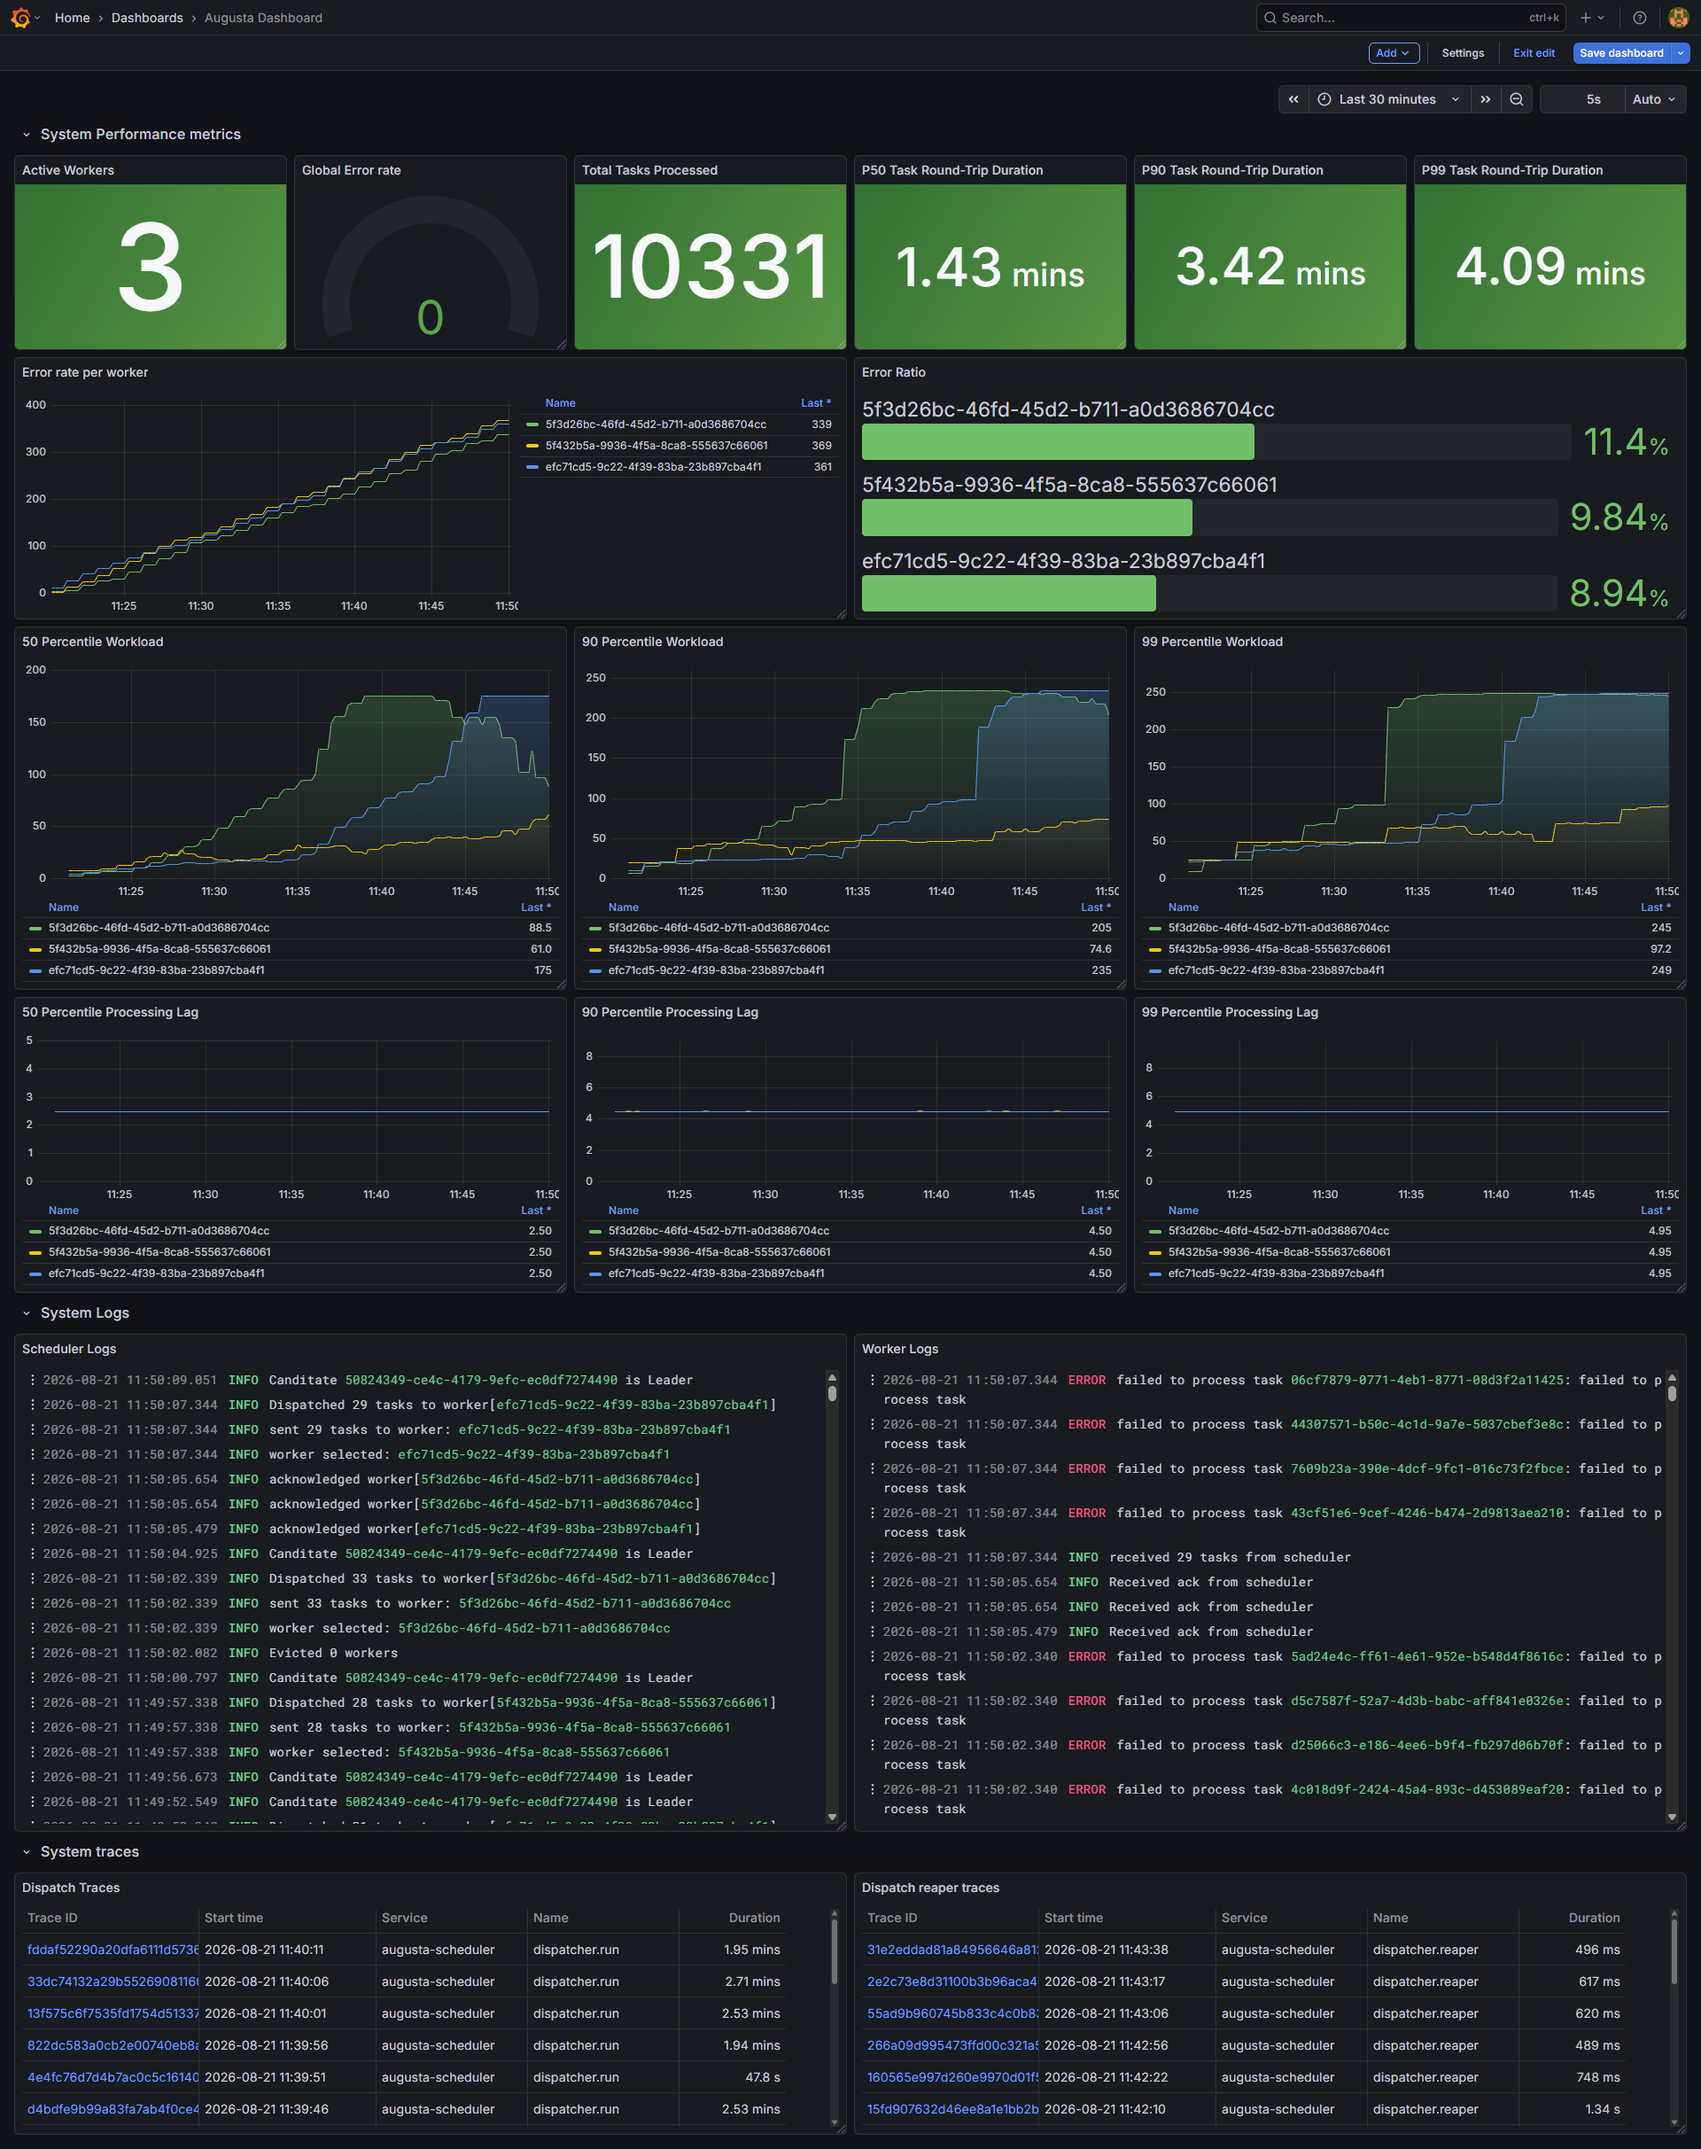
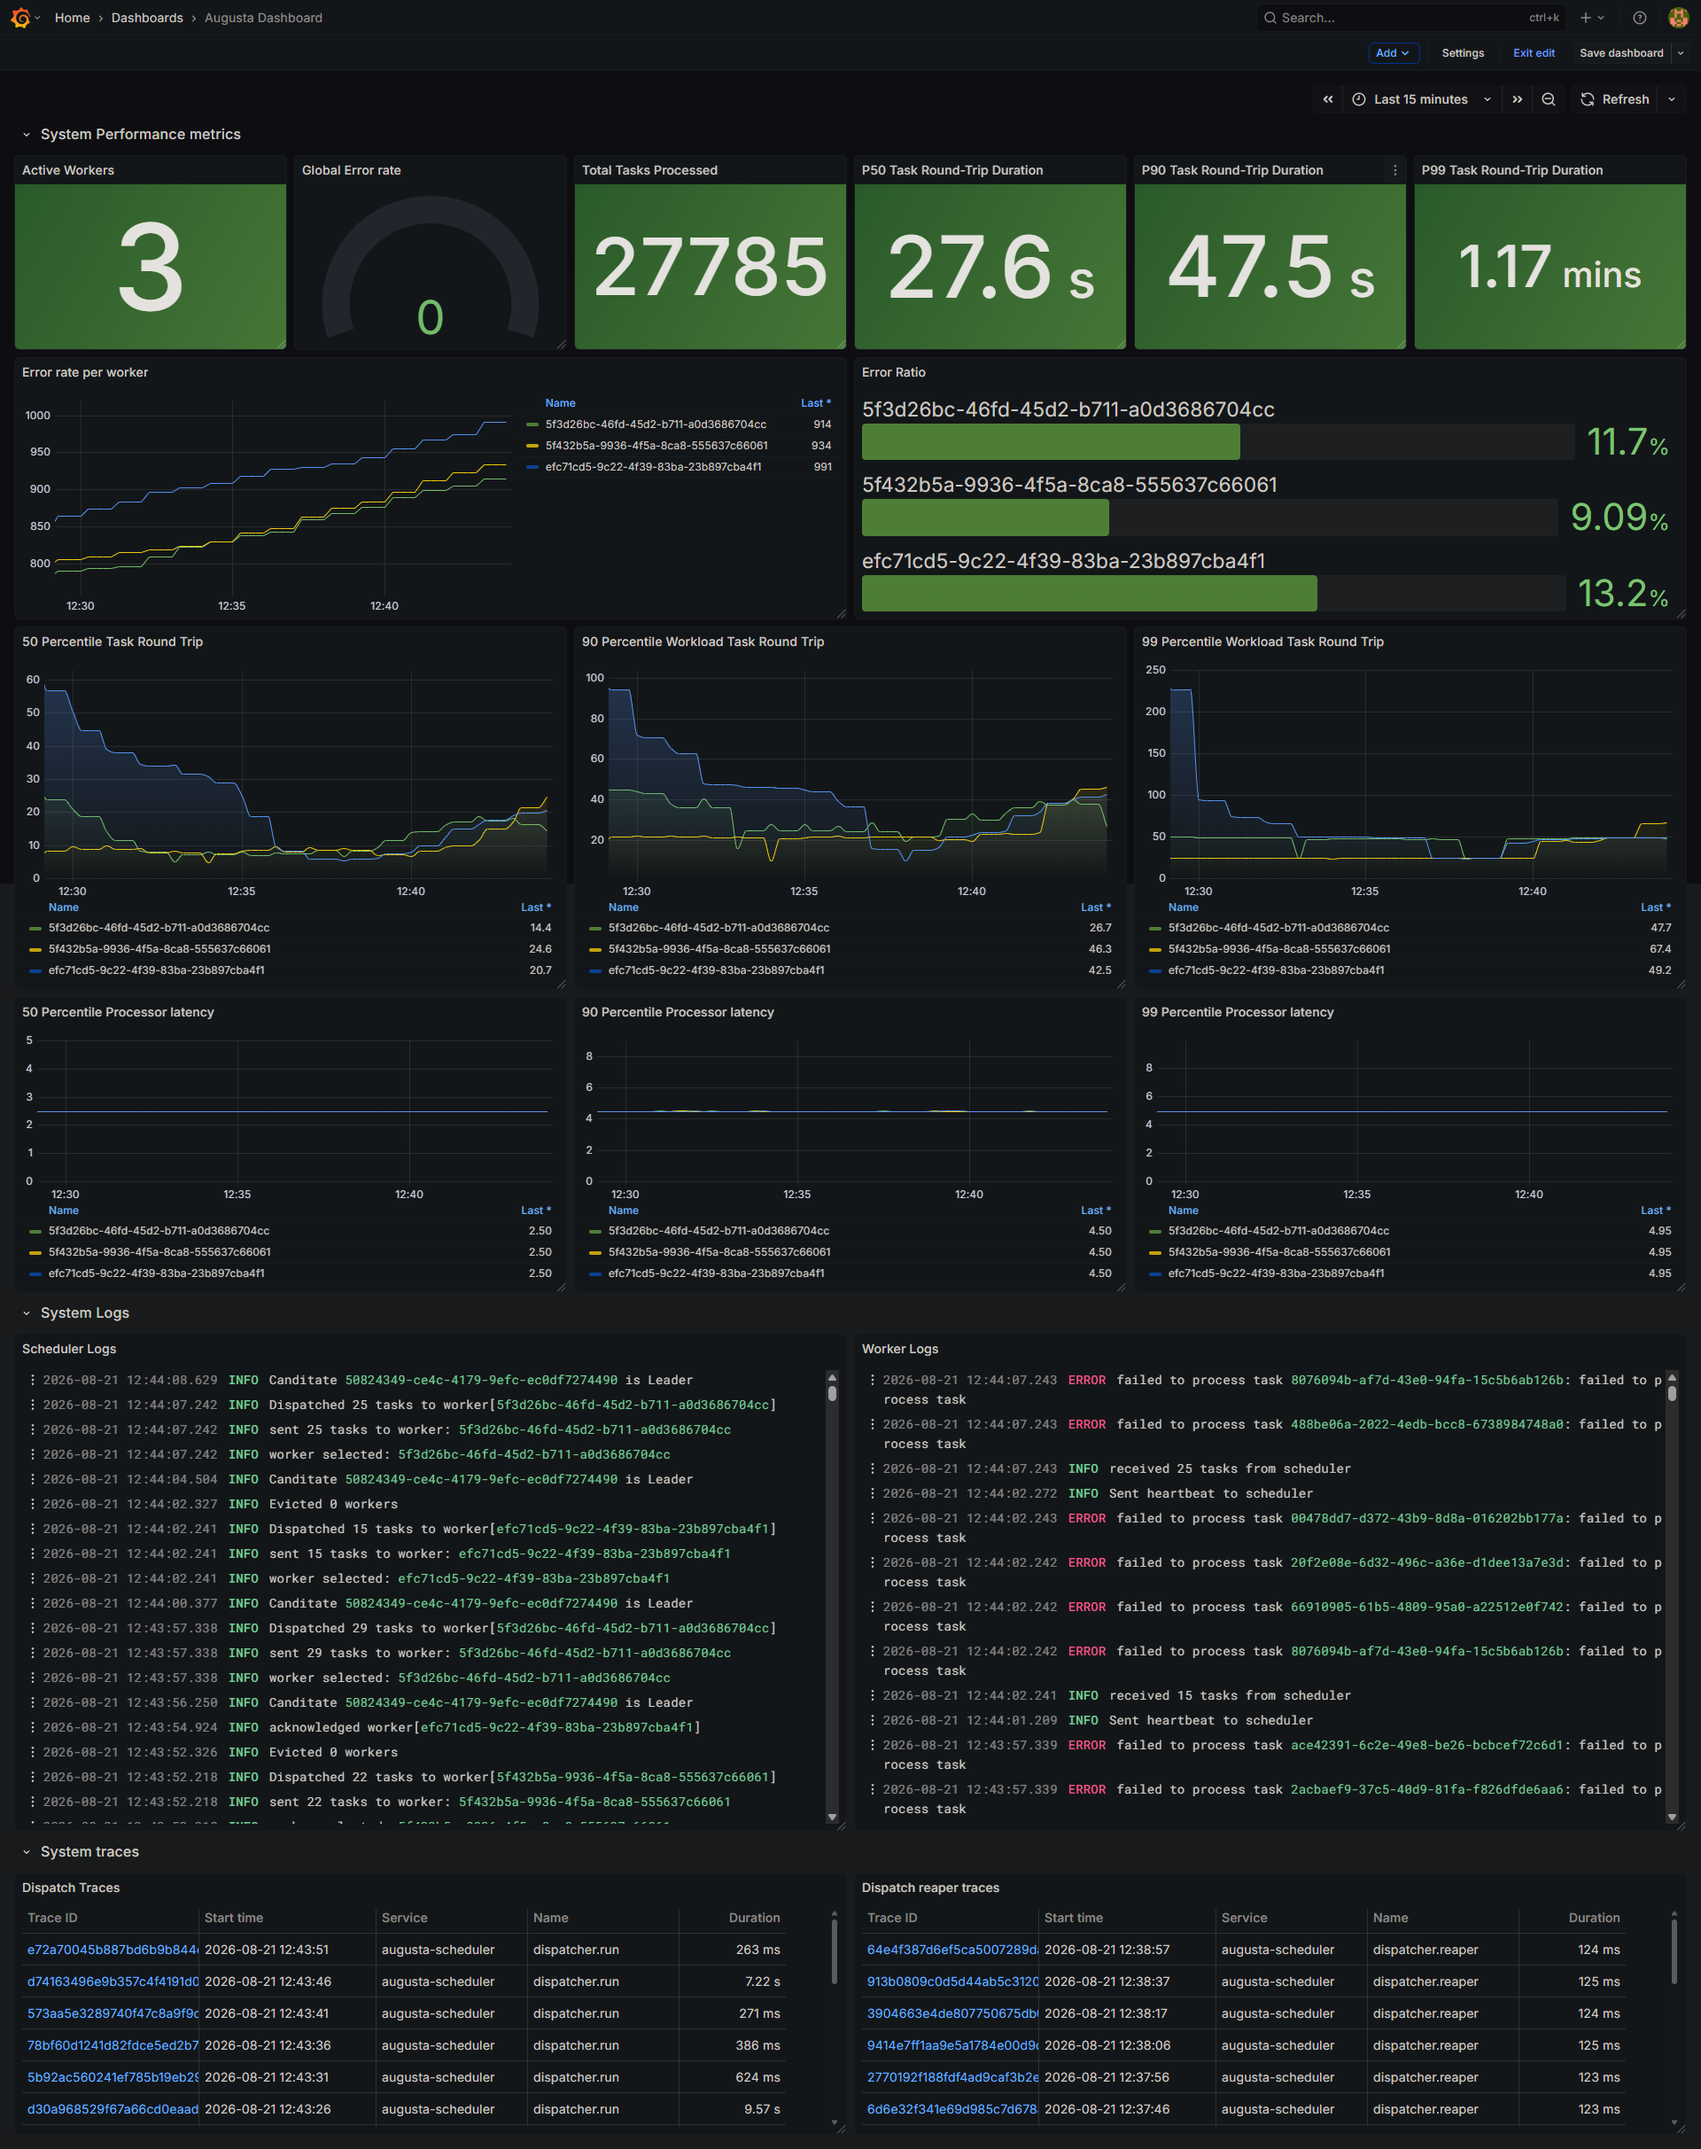
added readme

diff --git a/README.md b/README.md
@@ -1,1 +1,25 @@
-# augusta-observability
+# OTel observability implementation of augusta scheduler
+
+The following is a discussion of the implementation of an observability solution for [augusta scheduler](https://github.com/knightfall22/augusta). Augusta is a distributed task scheduler that works using three layers; control plane, communication layer, and data layer. The overview of the scheduler architecture can be found [here](https://github.com/knightfall22/augusta/blob/main/Architecture.md), but a basic understanding of distributed system is enough to understand this implementation.
+
+This implementation was carried out using the [OpenTelemetry](https://opentelemetry.io/) framework. The system observes three instrumentaions: logs(using logrus and loki), metrics(using prometheus) and trace(using tempo).
+
+### Metrics
+
+Several system metrics are observed:
+
+- Active workers
+- Total tasks processed
+- Task round trips duration(P50, P90, P99): the time it took from the scheduler to dispatch a task to a worker and back
+- Processor latency(P50, P90, P99): the time it took for a worker to process a task
+
+![metrics](assets/metrics.png)
+
+### Logs
+
+General system logs are collected from both the scheduler and workers. Some logs are linked with traces to give a fuller picture of what is going on in the system.
+
+![logs](assets/logs.png)
+![logs linked with traces](assets/logs-traces.png)
+
+### Traces
